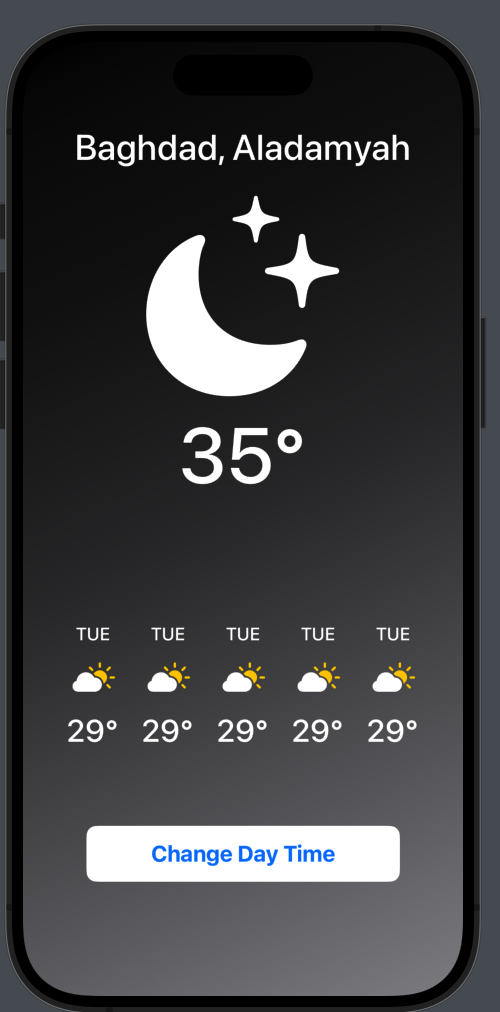
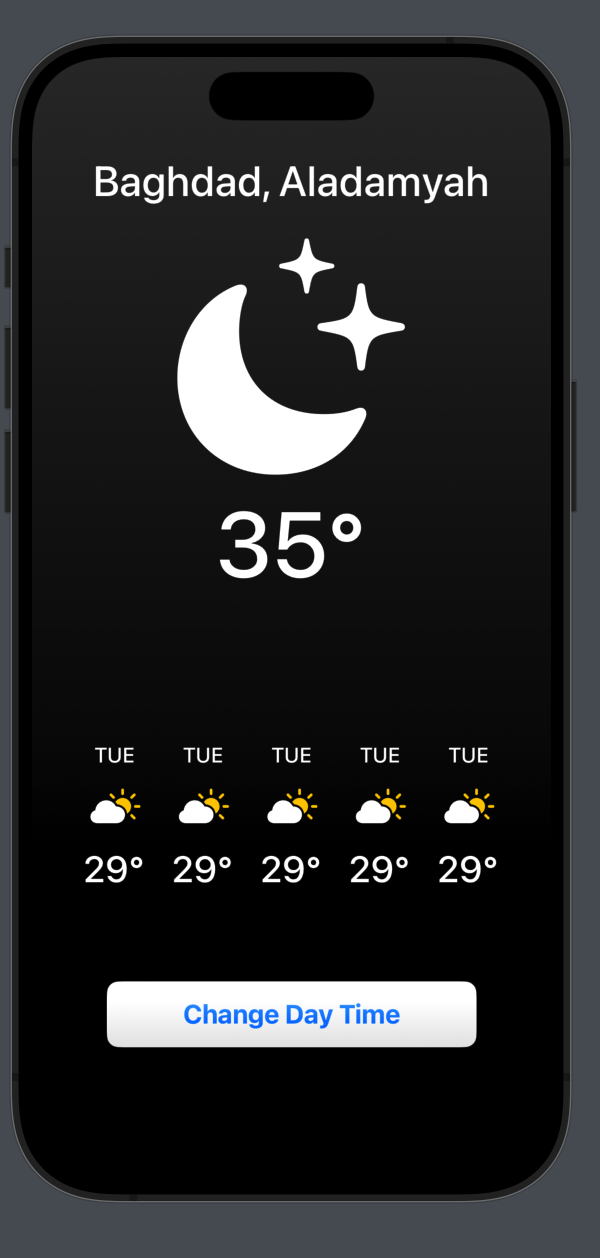
Refactor background and button gradients in UI
Updated BackgroundView to use a binding for isNight and apply a gradient based on night mode. WeatherButton now uses gradient backgrounds and text. Updated screenshots to reflect the new UI changes.

diff --git a/SwiftUi_Weather/Views/BackgroundView.swift b/SwiftUi_Weather/Views/BackgroundView.swift
@@ -8,15 +8,12 @@
 import SwiftUI
 
 struct BackgroundView: View {
-   
-    var topColor : Color
-    var bottomColor : Color
+    
+    @Binding var isNight : Bool
    
     var body: some View {
-        LinearGradient(
-            gradient: Gradient(colors: [topColor,bottomColor])
-            ,startPoint: .topLeading,
-            endPoint: .bottomTrailing)
-        .ignoresSafeArea(.all)
+        ContainerRelativeShape()
+            .fill( isNight ? Color.black.gradient : Color.blue.gradient)
+            .ignoresSafeArea()
     }
 }

diff --git a/SwiftUi_Weather/Views/WeatherButton.swift b/SwiftUi_Weather/Views/WeatherButton.swift
@@ -21,8 +21,8 @@ struct WeatherButton: View {
         } label: {
             Text(title)
                 .frame(width: 280,height: 50)
-                .background(backgroundColor)
-                .foregroundStyle(textColor)
+                .background(backgroundColor.gradient)
+                .foregroundStyle(textColor.gradient)
                 .font(.system(size:20,weight: .bold))
                 .clipShape(.buttonBorder)
         }

diff --git a/SwiftUi_Weather/ContentView.swift b/SwiftUi_Weather/ContentView.swift
@@ -12,7 +12,9 @@ struct ContentView: View {
     @State  var isNight = false
     var body: some View {
         ZStack{
-            BackgroundView(topColor: isNight ? .black : .blue, bottomColor: .gray)
+           
+            BackgroundView(isNight: $isNight)
+           
             VStack{
                 CityNameView(cityName: "Baghdad, Aladamyah")
                
